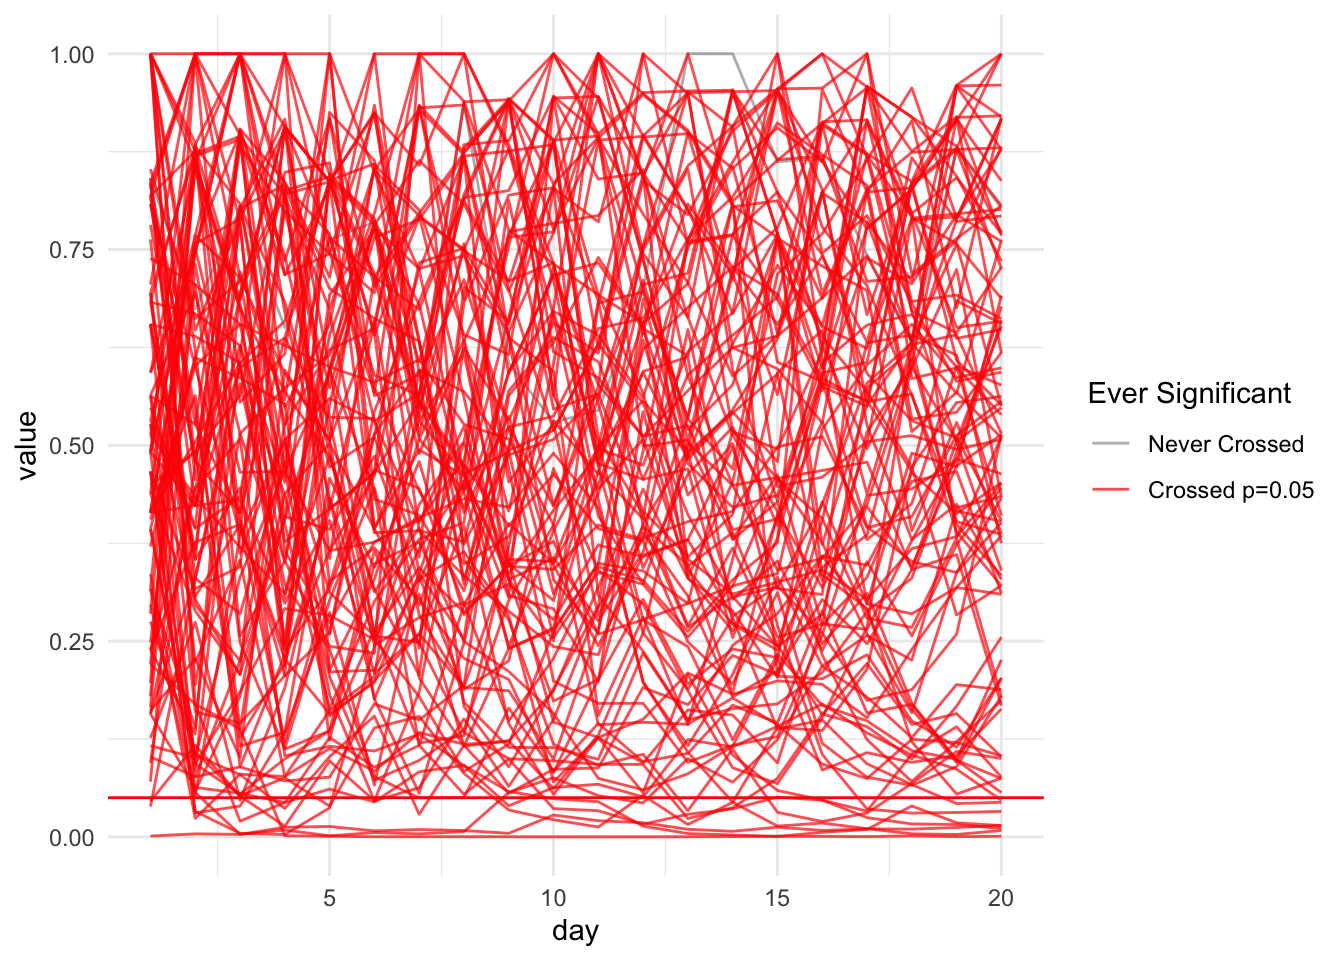
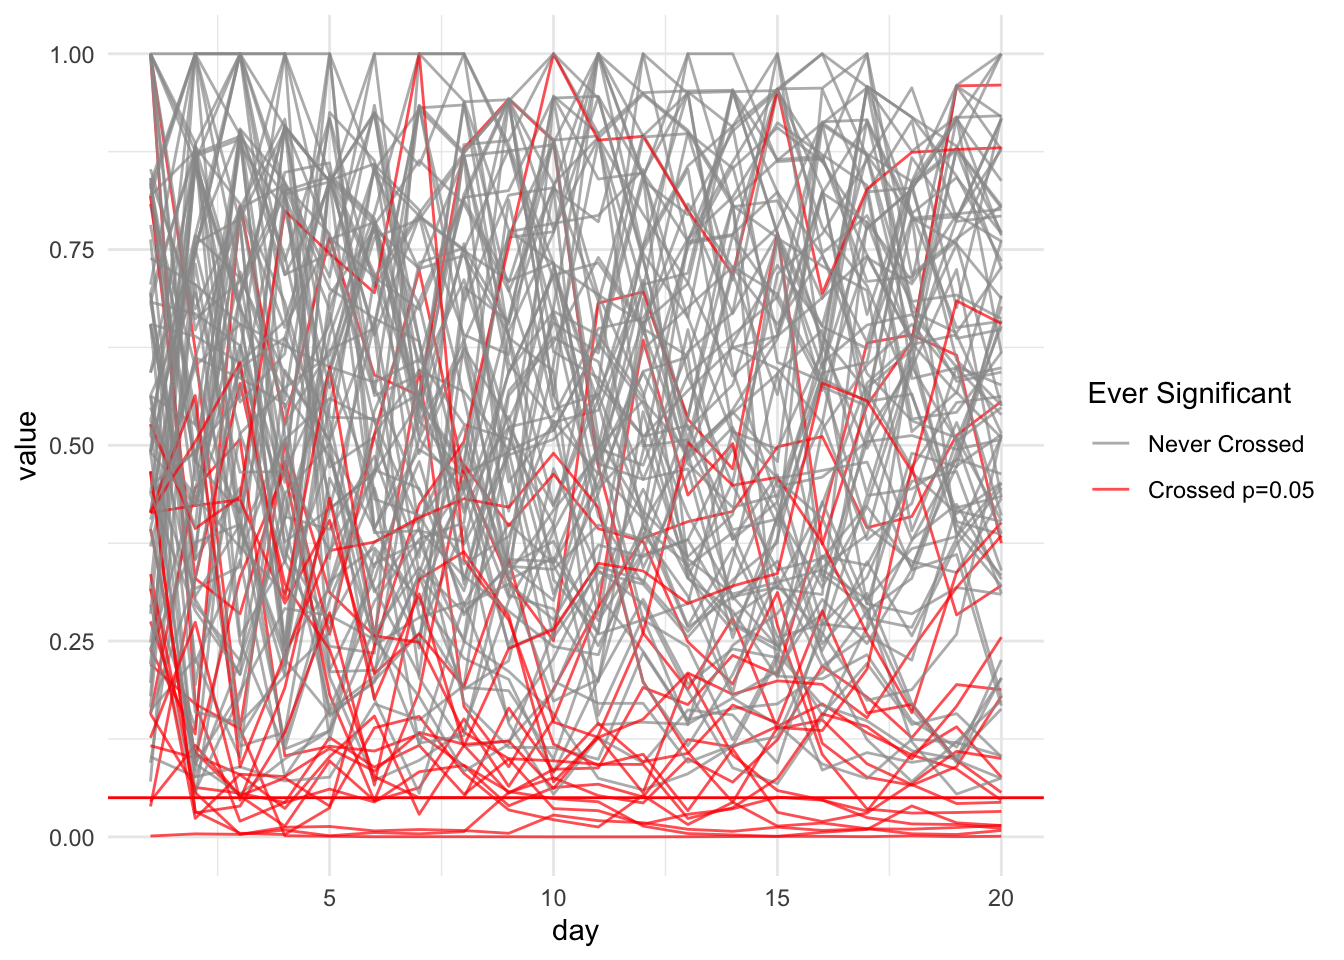
started workign on the AB testing stuff

Changed region(s): [[0.0938, 0.0312, 0.75, 0.8125]]

diff --git a/docs/posts/ABtesting/index.html b/docs/posts/ABtesting/index.html
@@ -2,13 +2,13 @@
 <html xmlns="http://www.w3.org/1999/xhtml" lang="en" xml:lang="en"><head>
 
 <meta charset="utf-8">
-<meta name="generator" content="quarto-1.8.25">
+<meta name="generator" content="quarto-1.8.26">
 
 <meta name="viewport" content="width=device-width, initial-scale=1.0, user-scalable=yes">
 
 <meta name="author" content="Sheng Long">
-<meta name="dcterms.date" content="2025-12-15">
-<meta name="description" content="Some notes on A/B Testing, the frequentist way and the Bayesian way, as well as their differences.">
+<meta name="dcterms.date" content="2026-01-20">
+<meta name="description" content="Some notes on A/B Testing, the frequentist and Bayesian approaches, and their differences.">
 
 <title>Bayesian and Frequentist A/B Testing – Sheng Long</title>
 <style>
@@ -72,7 +72,7 @@ pre > code.sourceCode > span > a:first-child::before { text-decoration: underlin
 <script src="../../site_libs/quarto-html/tippy.umd.min.js"></script>
 <script src="../../site_libs/quarto-html/anchor.min.js"></script>
 <link href="../../site_libs/quarto-html/tippy.css" rel="stylesheet">
-<link href="../../site_libs/quarto-html/quarto-syntax-highlighting-7b89279ff1a6dce999919e0e67d4d9ec.css" rel="stylesheet" id="quarto-text-highlighting-styles">
+<link href="../../site_libs/quarto-html/quarto-syntax-highlighting-587c61ba64f3a5504c4d52d930310e48.css" rel="stylesheet" id="quarto-text-highlighting-styles">
 <script src="../../site_libs/bootstrap/bootstrap.min.js"></script>
 <link href="../../site_libs/bootstrap/bootstrap-icons.css" rel="stylesheet">
 <link href="../../site_libs/bootstrap/bootstrap-2f1d5595274720d733f4ffbbd914babc.min.css" rel="stylesheet" append-hash="true" id="quarto-bootstrap" data-mode="light">
@@ -136,10 +136,6 @@ window.Quarto = {
   <header id="quarto-header" class="headroom fixed-top"><div id="quarto-draft-alert" class="alert alert-warning"><i class="bi bi-pencil-square"></i>Draft</div>
     <nav class="navbar navbar-expand-lg " data-bs-theme="dark">
       <div class="navbar-container container-fluid">
-      <div class="navbar-brand-container mx-auto">
-    <a href="../../index.html" class="navbar-brand navbar-brand-logo">
-    </a>
-  </div>
           <button class="navbar-toggler" type="button" data-bs-toggle="collapse" data-bs-target="#navbarCollapse" aria-controls="navbarCollapse" role="menu" aria-expanded="false" aria-label="Toggle navigation" onclick="if (window.quartoToggleHeadroom) { window.quartoToggleHeadroom(); }">
   <span class="navbar-toggler-icon"></span>
 </button>
@@ -195,7 +191,7 @@ window.Quarto = {
 
 <div>
   <div class="description">
-    Some notes on A/B Testing, the frequentist way and the Bayesian way, as well as their differences.
+    Some notes on A/B Testing, the frequentist and Bayesian approaches, and their differences.
   </div>
 </div>
 
@@ -205,14 +201,14 @@ window.Quarto = {
     <div>
     <div class="quarto-title-meta-heading">Author</div>
     <div class="quarto-title-meta-contents">
-             <p>Sheng Long </p>
[1 lines of base64/hex data omitted]
           </div>
   </div>
     
     <div>
     <div class="quarto-title-meta-heading">Updated</div>
     <div class="quarto-title-meta-contents">
-      <p class="date">December 15, 2025</p>
+      <p class="date">January 20, 2026</p>
     </div>
   </div>
   
@@ -224,12 +220,30 @@ window.Quarto = {
 </header>
 
 
+<div class="callout callout-style-default callout-note callout-titled">
+<div class="callout-header d-flex align-content-center">
+<div class="callout-icon-container">
+<i class="callout-icon"></i>
+</div>
+<div class="callout-title-container flex-fill">
+<span class="screen-reader-only">Note</span>TLDR
+</div>
+</div>
+<div class="callout-body-container callout-body">
+<p>Sources for inspiration:</p>
+<ul>
+<li><a href="http://varianceexplained.org/r/bayesian-ab-testing/">Is Bayesian A/B Testing immune to peeking? Not exactly</a></li>
+<li><a href="https://www.evanmiller.org/how-not-to-run-an-ab-test.html">How Not to Run an A/B Test</a></li>
+</ul>
+</div>
+</div>
 <section id="the-peeking-problem" class="level1 page-columns page-full">
 <h1>The Peeking Problem</h1>
-<p>Sources: - <a href="http://varianceexplained.org/r/bayesian-ab-testing/">Is Bayesian A/B Testing immune to peeking? Not exactly</a> - <a href="https://www.evanmiller.org/how-not-to-run-an-ab-test.html">How Not to Run an A/B Test</a></p>
-<p>Say you are a data scientist running an A/B test on a new feature. Let’s say you run this experiment for 20 days, and on each day get 10,000 samples. Further, suppose that the groundtruth is that for both version A and version B, the clickthrough rate<a href="#fn1" class="footnote-ref" id="fnref1" role="doc-noteref"><sup>1</sup></a> is 0.1%. We can simulate the total number of clicks during a single day as following a Binomial distribution.</p>
-<div class="no-row-height column-margin column-container"><div id="fn1"><p><sup>1</sup>&nbsp;A typical definition for Clickthrough rate (CTR) is clicks <span class="math inline">\(\div\)</span> impressions (number of times the ad is shown). See <a href="https://support.google.com/google-ads/answer/2615875?hl=en#:~:text=Clickthrough%20rate%20(CTR)%20is%20a%20ratio%20that,*%20Ads%2C%20listings%2C%20and%20keywords%20are%20performing">this page</a> for details. </p></div></div><p>Let’s say we use the Chi-squared two sample proportion test.</p>
+<p>Say you are a data scientist running an A/B test on a new feature. Let’s say you run this experiment for 20 days, and on each day get 10,000 samples. Further, suppose that the groundtruth is that for both version A and version B, the clickthrough rate<a href="#fn1" class="footnote-ref" id="fnref1" role="doc-noteref"><sup>1</sup></a> is 0.1%. We can simulate the total number of clicks during a single day as following a Binomial distribution <span class="math inline">\(B(n = 10000, p = 0.001)\)</span><a href="#fn2" class="footnote-ref" id="fnref2" role="doc-noteref"><sup>2</sup></a>.</p>
+<div class="no-row-height column-margin column-container"><div id="fn1"><p><sup>1</sup>&nbsp;A typical definition for Clickthrough rate (CTR) is clicks <span class="math inline">\(\div\)</span> impressions (number of times the ad is shown). See <a href="https://support.google.com/google-ads/answer/2615875?hl=en#:~:text=Clickthrough%20rate%20(CTR)%20is%20a%20ratio%20that,*%20Ads%2C%20listings%2C%20and%20keywords%20are%20performing">this page</a> for details. </p></div><div id="fn2"><p><sup>2</sup>&nbsp;… for simplicity assume the 20 Binomial distributions are independent from each other</p></div></div><p>Let’s say we use the Chi-squared two sample proportion test.</p>
 <div class="cell">
+<details class="code-fold">
+<summary>Code</summary>
 <div class="code-copy-outer-scaffold"><div class="sourceCode cell-code" id="cb1"><pre class="sourceCode r code-with-copy"><code class="sourceCode r"><span id="cb1-1"><a href="#cb1-1" aria-hidden="true" tabindex="-1"></a><span class="co"># set random seed </span></span>
 <span id="cb1-2"><a href="#cb1-2" aria-hidden="true" tabindex="-1"></a><span class="fu">set.seed</span>(<span class="dv">57</span>)</span>
 <span id="cb1-3"><a href="#cb1-3" aria-hidden="true" tabindex="-1"></a><span class="co"># simulate daily clicks </span></span>
@@ -262,8 +276,11 @@ window.Quarto = {
 <span id="cb1-30"><a href="#cb1-30" aria-hidden="true" tabindex="-1"></a>}</span>
 <span id="cb1-31"><a href="#cb1-31" aria-hidden="true" tabindex="-1"></a></span>
 <span id="cb1-32"><a href="#cb1-32" aria-hidden="true" tabindex="-1"></a><span class="co"># p_values_cum</span></span></code></pre></div><button title="Copy to Clipboard" class="code-copy-button"><i class="bi"></i></button></div>
+</details>
 </div>
 <div class="cell">
+<details class="code-fold">
+<summary>Code</summary>
 <div class="code-copy-outer-scaffold"><div class="sourceCode cell-code" id="cb2"><pre class="sourceCode r code-with-copy"><code class="sourceCode r"><span id="cb2-1"><a href="#cb2-1" aria-hidden="true" tabindex="-1"></a>df <span class="ot">&lt;-</span> p_values_cum <span class="sc">%&gt;%</span> <span class="fu">as_tibble</span>() <span class="sc">%&gt;%</span> </span>
 <span id="cb2-2"><a href="#cb2-2" aria-hidden="true" tabindex="-1"></a>  <span class="fu">mutate</span>(<span class="at">day =</span> <span class="dv">1</span><span class="sc">:</span><span class="dv">20</span>)</span>
 <span id="cb2-3"><a href="#cb2-3" aria-hidden="true" tabindex="-1"></a></span>
@@ -271,6 +288,7 @@ window.Quarto = {
 <span id="cb2-5"><a href="#cb2-5" aria-hidden="true" tabindex="-1"></a>  <span class="fu">geom_line</span>() <span class="sc">+</span> </span>
 <span id="cb2-6"><a href="#cb2-6" aria-hidden="true" tabindex="-1"></a>  <span class="fu">geom_point</span>() <span class="sc">+</span> </span>
 <span id="cb2-7"><a href="#cb2-7" aria-hidden="true" tabindex="-1"></a>  <span class="fu">geom_hline</span>(<span class="at">yintercept =</span> <span class="fl">0.05</span>, <span class="at">color =</span> <span class="st">"red"</span>)</span></code></pre></div><button title="Copy to Clipboard" class="code-copy-button"><i class="bi"></i></button></div>
+</details>
 <div class="cell-output-display">
 <div>
 <figure class="figure">
@@ -279,7 +297,8 @@ window.Quarto = {
 </div>
 </div>
 </div>
-<p>If we simply decided to stop collecting data on day 3 or day 4, then we probably would never realize that in the long run, the p-value is indeed not statistically significant.</p>
+<p>If we <em>peeked</em> at the p-value during the data collection process, before the 20-days run up, and then decided to stop collecting data on day 3 or day 4, then we probably would never realize that in the long run, the p-value is not statistically significant.</p>
+<hr>
 <p>We can repeat the above experiment for 100 times:</p>
 <div class="cell">
 <details class="code-fold">
@@ -333,7 +352,7 @@ approximation may be incorrect</code></pre>
 <details class="code-fold">
 <summary>Code</summary>
 <div class="code-copy-outer-scaffold"><div class="sourceCode cell-code" id="cb5"><pre class="sourceCode r code-with-copy"><code class="sourceCode r"><span id="cb5-1"><a href="#cb5-1" aria-hidden="true" tabindex="-1"></a>total_sim_df <span class="ot">&lt;-</span> total_sim_df <span class="sc">%&gt;%</span> <span class="fu">group_by</span>(exp_id) <span class="sc">%&gt;%</span> </span>
-<span id="cb5-2"><a href="#cb5-2" aria-hidden="true" tabindex="-1"></a>  <span class="fu">mutate</span>(<span class="at">ever_sig =</span> <span class="fu">any</span>(value <span class="sc">&lt;=</span> <span class="fl">0.5</span>)) <span class="sc">%&gt;%</span> </span>
+<span id="cb5-2"><a href="#cb5-2" aria-hidden="true" tabindex="-1"></a>  <span class="fu">mutate</span>(<span class="at">ever_sig =</span> <span class="fu">any</span>(value <span class="sc">&lt;=</span> <span class="fl">0.05</span>)) <span class="sc">%&gt;%</span> </span>
 <span id="cb5-3"><a href="#cb5-3" aria-hidden="true" tabindex="-1"></a>  <span class="fu">ungroup</span>(.)</span>
 <span id="cb5-4"><a href="#cb5-4" aria-hidden="true" tabindex="-1"></a></span>
 <span id="cb5-5"><a href="#cb5-5" aria-hidden="true" tabindex="-1"></a>total_sim_df <span class="sc">%&gt;%</span> <span class="fu">group_by</span>(ever_sig) <span class="sc">%&gt;%</span> <span class="fu">count</span>(.)</span></code></pre></div><button title="Copy to Clipboard" class="code-copy-button"><i class="bi"></i></button></div>
@@ -343,8 +362,8 @@ approximation may be incorrect</code></pre>
 # Groups:   ever_sig [2]
   ever_sig     n
   &lt;lgl&gt;    &lt;int&gt;
-1 FALSE       20
-2 TRUE      1980</code></pre>
+1 FALSE     1560
+2 TRUE       440</code></pre>
 </div>
 <details class="code-fold">
 <summary>Code</summary>
@@ -365,7 +384,6 @@ approximation may be incorrect</code></pre>
 </div>
 </div>
 </div>
-<p>Hmm the above graph looks a bit weird …</p>
 <p>Anyways, the promise that the frequentist paradigm is making is that it helps control the type I error. When executed correctly. Bayesians don’t help with this.</p>
 <p>If we do want to do things correctly and not let’s say, run an experiment for an indefinite amount of time, another thing to do is to implement (frequentist) sequential Bayesian testing correctly.</p>
 <div class="callout callout-style-default callout-note callout-titled">
@@ -374,7 +392,7 @@ approximation may be incorrect</code></pre>
 <i class="callout-icon"></i>
 </div>
 <div class="callout-title-container flex-fill">
-<span class="screen-reader-only">Note</span>Does Bayesian A/B Testing solve the problem of peeking<a href="#fn2" class="footnote-ref" id="fnref2" role="doc-noteref"><sup>2</sup></a>?
+<span class="screen-reader-only">Note</span>Does Bayesian A/B Testing solve the problem of peeking<a href="#fn3" class="footnote-ref" id="fnref3" role="doc-noteref"><sup>3</sup></a>?
 </div>
 </div>
 <div class="callout-body-container callout-body">
@@ -382,11 +400,11 @@ approximation may be incorrect</code></pre>
 <p>There is also this <a href="https://alexdeng.github.io/public/files/continuousMonitoring.pdf">research paper</a> on optional stopping in Bayesian testing.</p>
 </div>
 </div>
-<div class="no-row-height column-margin column-container"><div id="fn2"><p><sup>2</sup>&nbsp;aka “optional stopping”</p></div></div></section>
+<div class="no-row-height column-margin column-container"><div id="fn3"><p><sup>3</sup>&nbsp;aka “optional stopping”</p></div></div></section>
 <section id="bayesian-ab-testing-with-an-example." class="level1 page-columns page-full">
 <h1>Bayesian A/B testing with an example.</h1>
 <div class="callout callout-style-default callout-note callout-titled">
-<div class="callout-header d-flex align-content-center collapsed" data-bs-toggle="collapse" data-bs-target=".callout-2-contents" aria-controls="callout-2" aria-expanded="false" aria-label="Toggle callout">
+<div class="callout-header d-flex align-content-center collapsed" data-bs-toggle="collapse" data-bs-target=".callout-3-contents" aria-controls="callout-3" aria-expanded="false" aria-label="Toggle callout">
 <div class="callout-icon-container">
 <i class="callout-icon"></i>
 </div>
@@ -395,7 +413,7 @@ approximation may be incorrect</code></pre>
 </div>
 <div class="callout-btn-toggle d-inline-block border-0 py-1 ps-1 pe-0 float-end"><i class="callout-toggle"></i></div>
 </div>
-<div id="callout-2" class="callout-2-contents callout-collapse collapse">
+<div id="callout-3" class="callout-3-contents callout-collapse collapse">
 <div class="callout-body-container callout-body">
 <ul>
 <li><a href="https://www.kaggle.com/code/laurinbrechter/bayesian-a-b-testing/input">this blogpost</a> from Kaggle that uses PyMC.</li>
@@ -407,14 +425,14 @@ approximation may be incorrect</code></pre>
 </div>
 </div>
 </div>
-<p>If you look at the first formula for <a href="https://www.evanmiller.org/bayesian-ab-testing.html#notes">binary outcomes</a>, it says that when the prior is uninformative (i.e., uniform, alpha = beta = 1), then the updated posterior is …? So in a sense, a beta distribution is a very special kind of distribution<a href="#fn3" class="footnote-ref" id="fnref3" role="doc-noteref"><sup>3</sup></a> that allows closed-form calculations of updated posterior I believe …</p>
-<div class="no-row-height column-margin column-container"><div id="fn3"><p><sup>3</sup>&nbsp;<a href="https://en.wikipedia.org/wiki/Conjugate_prior">conjugate prior</a></p></div></div><section id="beta-distribution" class="level3">
+<p>If you look at the first formula for <a href="https://www.evanmiller.org/bayesian-ab-testing.html#notes">binary outcomes</a>, it says that when the prior is uninformative (i.e., uniform, alpha = beta = 1), then the updated posterior is …? So in a sense, a beta distribution is a very special kind of distribution<a href="#fn4" class="footnote-ref" id="fnref4" role="doc-noteref"><sup>4</sup></a> that allows closed-form calculations of updated posterior I believe …</p>
+<div class="no-row-height column-margin column-container"><div id="fn4"><p><sup>4</sup>&nbsp;<a href="https://en.wikipedia.org/wiki/Conjugate_prior">conjugate prior</a></p></div></div><section id="beta-distribution" class="level3">
 <h3 class="anchored" data-anchor-id="beta-distribution">Beta distribution</h3>
 <div class="cell card bg-light p-2 g-col-24 g-col-lg-7">
-<div class="code-copy-outer-scaffold"><div class="sourceCode cell-code" id="cb8" data-startfrom="175" data-source-offset="-0"><pre class="sourceCode js code-with-copy"><code class="sourceCode javascript" style="counter-reset: source-line 174;"><span id="cb8-175"><a href="#cb8-175" aria-hidden="true" tabindex="-1"></a>viewof mu <span class="op">=</span> Inputs<span class="op">.</span><span class="fu">range</span>([<span class="op">-</span><span class="dv">10</span><span class="op">,</span> <span class="dv">10</span>]<span class="op">,</span> {<span class="dt">value</span><span class="op">:</span> <span class="dv">0</span><span class="op">,</span> <span class="dt">step</span><span class="op">:</span> <span class="fl">0.1</span><span class="op">,</span> <span class="dt">label</span><span class="op">:</span> <span class="st">"Location (mu)"</span>})</span>
-<span id="cb8-176"><a href="#cb8-176" aria-hidden="true" tabindex="-1"></a>viewof sigma <span class="op">=</span> Inputs<span class="op">.</span><span class="fu">range</span>([<span class="fl">0.1</span><span class="op">,</span> <span class="dv">10</span>]<span class="op">,</span> {<span class="dt">value</span><span class="op">:</span> <span class="dv">1</span><span class="op">,</span> <span class="dt">step</span><span class="op">:</span> <span class="fl">0.1</span><span class="op">,</span> <span class="dt">label</span><span class="op">:</span> <span class="st">"Scale (sigma)"</span>})</span>
-<span id="cb8-177"><a href="#cb8-177" aria-hidden="true" tabindex="-1"></a>viewof lambda_val <span class="op">=</span> Inputs<span class="op">.</span><span class="fu">range</span>([<span class="op">-</span><span class="dv">5</span><span class="op">,</span> <span class="dv">5</span>]<span class="op">,</span> {<span class="dt">value</span><span class="op">:</span> <span class="dv">0</span><span class="op">,</span> <span class="dt">step</span><span class="op">:</span> <span class="fl">0.1</span><span class="op">,</span> <span class="dt">label</span><span class="op">:</span> <span class="st">"Skew (lambda)"</span>})</span>
-<span id="cb8-178"><a href="#cb8-178" aria-hidden="true" tabindex="-1"></a>viewof nu <span class="op">=</span> Inputs<span class="op">.</span><span class="fu">range</span>([<span class="dv">1</span><span class="op">,</span> <span class="dv">100</span>]<span class="op">,</span> {<span class="dt">value</span><span class="op">:</span> <span class="dv">10</span><span class="op">,</span> <span class="dt">step</span><span class="op">:</span> <span class="dv">1</span><span class="op">,</span> <span class="dt">label</span><span class="op">:</span> <span class="st">"Degrees of Freedom (nu)"</span>})</span></code></pre></div><button title="Copy to Clipboard" class="code-copy-button"><i class="bi"></i></button></div>
+<div class="code-copy-outer-scaffold"><div class="sourceCode cell-code" id="cb8" data-startfrom="180" data-source-offset="-0"><pre class="sourceCode js code-with-copy"><code class="sourceCode javascript" style="counter-reset: source-line 179;"><span id="cb8-180"><a href="#cb8-180" aria-hidden="true" tabindex="-1"></a>viewof mu <span class="op">=</span> Inputs<span class="op">.</span><span class="fu">range</span>([<span class="op">-</span><span class="dv">10</span><span class="op">,</span> <span class="dv">10</span>]<span class="op">,</span> {<span class="dt">value</span><span class="op">:</span> <span class="dv">0</span><span class="op">,</span> <span class="dt">step</span><span class="op">:</span> <span class="fl">0.1</span><span class="op">,</span> <span class="dt">label</span><span class="op">:</span> <span class="st">"Location (mu)"</span>})</span>
+<span id="cb8-181"><a href="#cb8-181" aria-hidden="true" tabindex="-1"></a>viewof sigma <span class="op">=</span> Inputs<span class="op">.</span><span class="fu">range</span>([<span class="fl">0.1</span><span class="op">,</span> <span class="dv">10</span>]<span class="op">,</span> {<span class="dt">value</span><span class="op">:</span> <span class="dv">1</span><span class="op">,</span> <span class="dt">step</span><span class="op">:</span> <span class="fl">0.1</span><span class="op">,</span> <span class="dt">label</span><span class="op">:</span> <span class="st">"Scale (sigma)"</span>})</span>
+<span id="cb8-182"><a href="#cb8-182" aria-hidden="true" tabindex="-1"></a>viewof lambda_val <span class="op">=</span> Inputs<span class="op">.</span><span class="fu">range</span>([<span class="op">-</span><span class="dv">5</span><span class="op">,</span> <span class="dv">5</span>]<span class="op">,</span> {<span class="dt">value</span><span class="op">:</span> <span class="dv">0</span><span class="op">,</span> <span class="dt">step</span><span class="op">:</span> <span class="fl">0.1</span><span class="op">,</span> <span class="dt">label</span><span class="op">:</span> <span class="st">"Skew (lambda)"</span>})</span>
+<span id="cb8-183"><a href="#cb8-183" aria-hidden="true" tabindex="-1"></a>viewof nu <span class="op">=</span> Inputs<span class="op">.</span><span class="fu">range</span>([<span class="dv">1</span><span class="op">,</span> <span class="dv">100</span>]<span class="op">,</span> {<span class="dt">value</span><span class="op">:</span> <span class="dv">10</span><span class="op">,</span> <span class="dt">step</span><span class="op">:</span> <span class="dv">1</span><span class="op">,</span> <span class="dt">label</span><span class="op">:</span> <span class="st">"Degrees of Freedom (nu)"</span>})</span></code></pre></div><button title="Copy to Clipboard" class="code-copy-button"><i class="bi"></i></button></div>
 <div class="cell-output cell-output-display">
 <div>
 <div id="ojs-cell-1-1" data-nodetype="declaration">

diff --git a/docs/posts.html b/docs/posts.html
@@ -6,7 +6,6 @@
 
 <meta name="viewport" content="width=device-width, initial-scale=1.0, user-scalable=yes">
 
-<meta name="author" content="Sheng Long">
 
 <title>Notes – Sheng Long</title>
 <style>
@@ -169,12 +168,6 @@ window.Quarto = {
 
 <div class="quarto-title-meta column-page-left">
 
-    <div>
-    <div class="quarto-title-meta-heading">Author</div>
-    <div class="quarto-title-meta-contents">
[1 lines of base64/hex data omitted]
-          </div>
-  </div>
     
   
     
